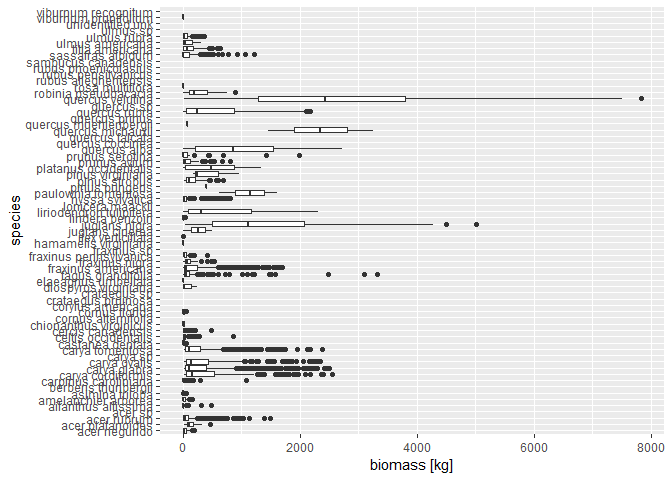
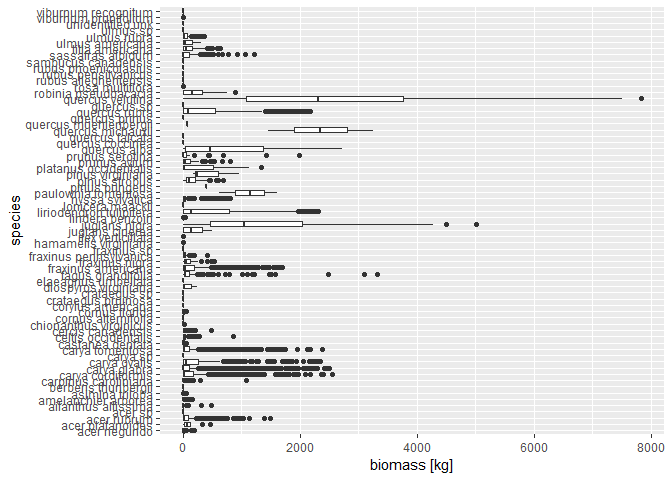
Detect weird biomass result

diff --git a/README.md b/README.md
@@ -84,20 +84,20 @@ species <- fgeo.biomass::scbi_species
 
 with_biomass <- census %>% 
   add_biomass(species, site = "SCBI")
+#> Guessing `dbh` in [mm]
+#> You may provide the `dbh` unit manually via the argument `dbh_unit`.
+#> `biomass` values are given in [kg].
 #> * Matching equations by site and species.
 #> * Refining equations according to dbh.
 #> * Using generic equations where expert equations can't be found.
 #> Warning:   Can't find equations matching these species:
 #>   acer sp, carya sp, crataegus sp, fraxinus sp, quercus prinus, quercus sp, ulmus sp, unidentified unk
-#> Warning: Can't find equations for 16385 rows (inserting `NA`).
+#> Warning: Can't find equations for 1 rows (inserting `NA`).
 #> Warning: Detected a single stem per tree. Do you need a multi-stem table?
 #> Warning: * For trees, `biomass` is that of the main stem.
 #> Warning: * For shrubs, `biomass` is that of the entire shrub.
-#> Guessing `dbh` in [mm]
-#> You may provide the `dbh` unit manually via the argument `dbh_unit`.
-#> `biomass` values are given in [kg].
 #> Adding new columns:
-#> 'rowid','site','species','biomass'
+#> 'rowid','species','site','biomass'
 ```
 
 We are warned that we are using a tree-table (as opposed to a
@@ -120,16 +120,16 @@ with_biomass %>%
 #> # A tibble: 30,050 x 3
 #>    treeID species              biomass
 #>     <int> <chr>                  <dbl>
-#>  1      1 lindera benzoin       NA    
-#>  2      2 lindera benzoin       NA    
-#>  3      3 lindera benzoin       NA    
-#>  4      4 nyssa sylvatica       NA    
-#>  5      5 hamamelis virginiana  NA    
+#>  1      1 lindera benzoin        0    
+#>  2      2 lindera benzoin        0    
+#>  3      3 lindera benzoin        0    
+#>  4      4 nyssa sylvatica        0    
+#>  5      5 hamamelis virginiana   0    
 #>  6      6 hamamelis virginiana   0.400
 #>  7      8 lindera benzoin        5.69 
-#>  8      9 viburnum prunifolium  NA    
-#>  9     10 asimina triloba       NA    
-#> 10     11 asimina triloba       NA    
+#>  8      9 viburnum prunifolium   0    
+#>  9     10 asimina triloba        0    
+#> 10     11 asimina triloba        0    
 #> # ... with 30,040 more rows
 ```
 
@@ -149,7 +149,6 @@ with_biomass %>%
   ylab("Reference `agb` (grey) and calculated `biomass` (black) in [kg]") +
   xlab("dbh [mm]") +
   theme_bw()
-#> Warning: Removed 16385 rows containing missing values (geom_point).
 ```
 
 ![](man/figures/README-unnamed-chunk-6-1.png)<!-- -->
@@ -166,7 +165,6 @@ with_biomass %>%
   geom_boxplot() +
   ylab("biomass [kg]") +
   coord_flip()
-#> Warning: Removed 16385 rows containing non-finite values (stat_boxplot).
 ```
 
 ![](man/figures/README-unnamed-chunk-7-1.png)<!-- -->
